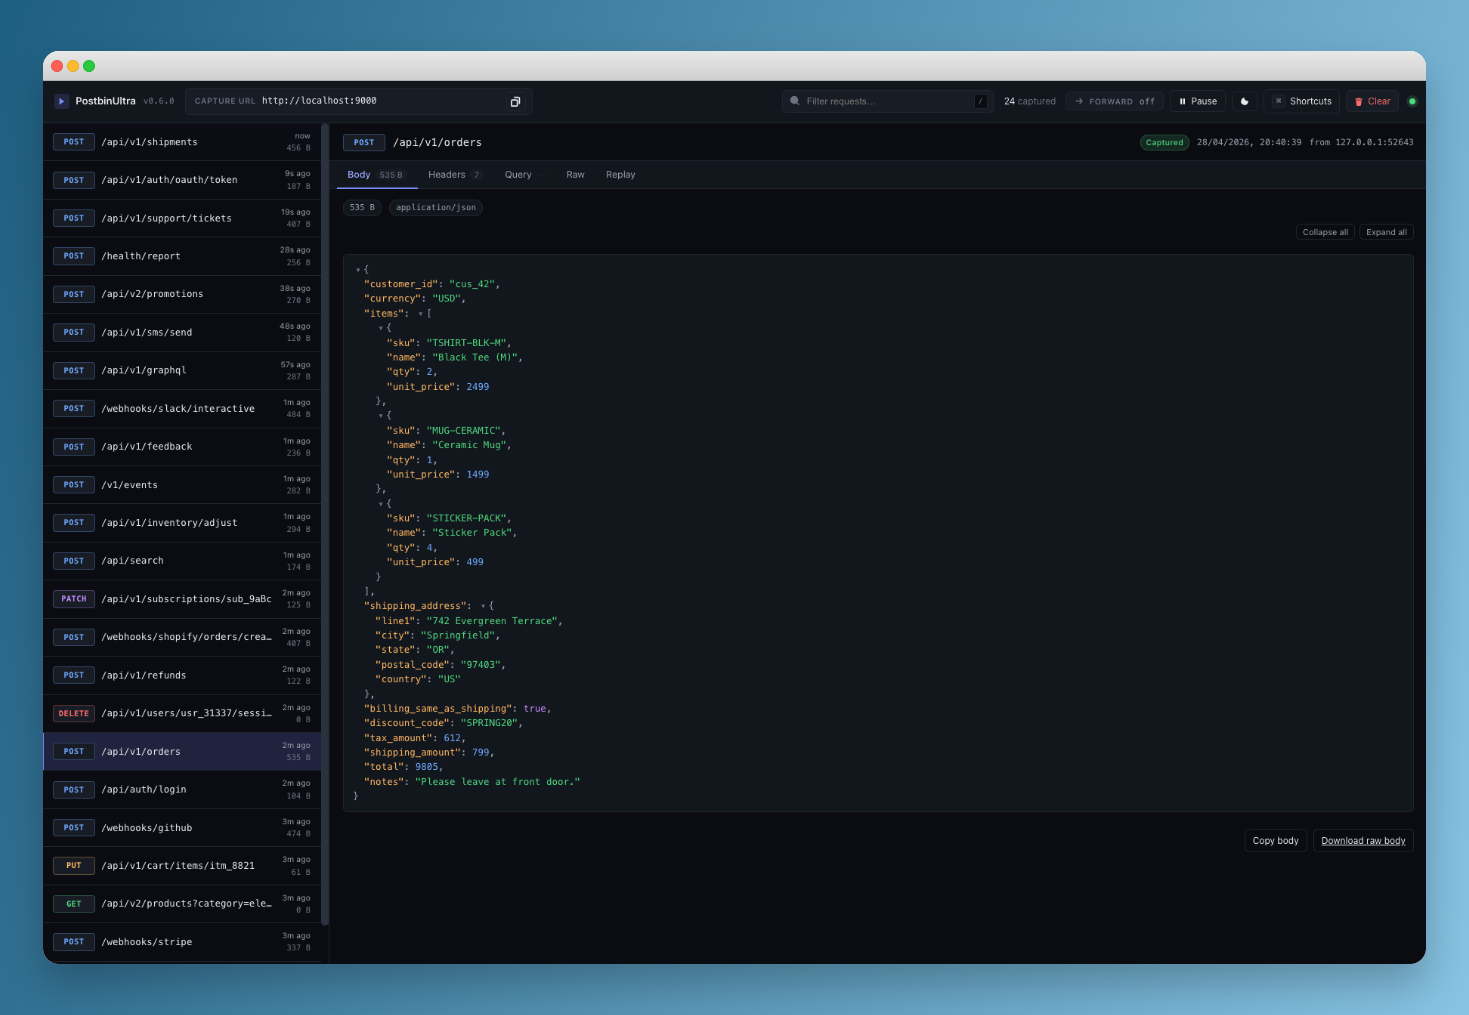
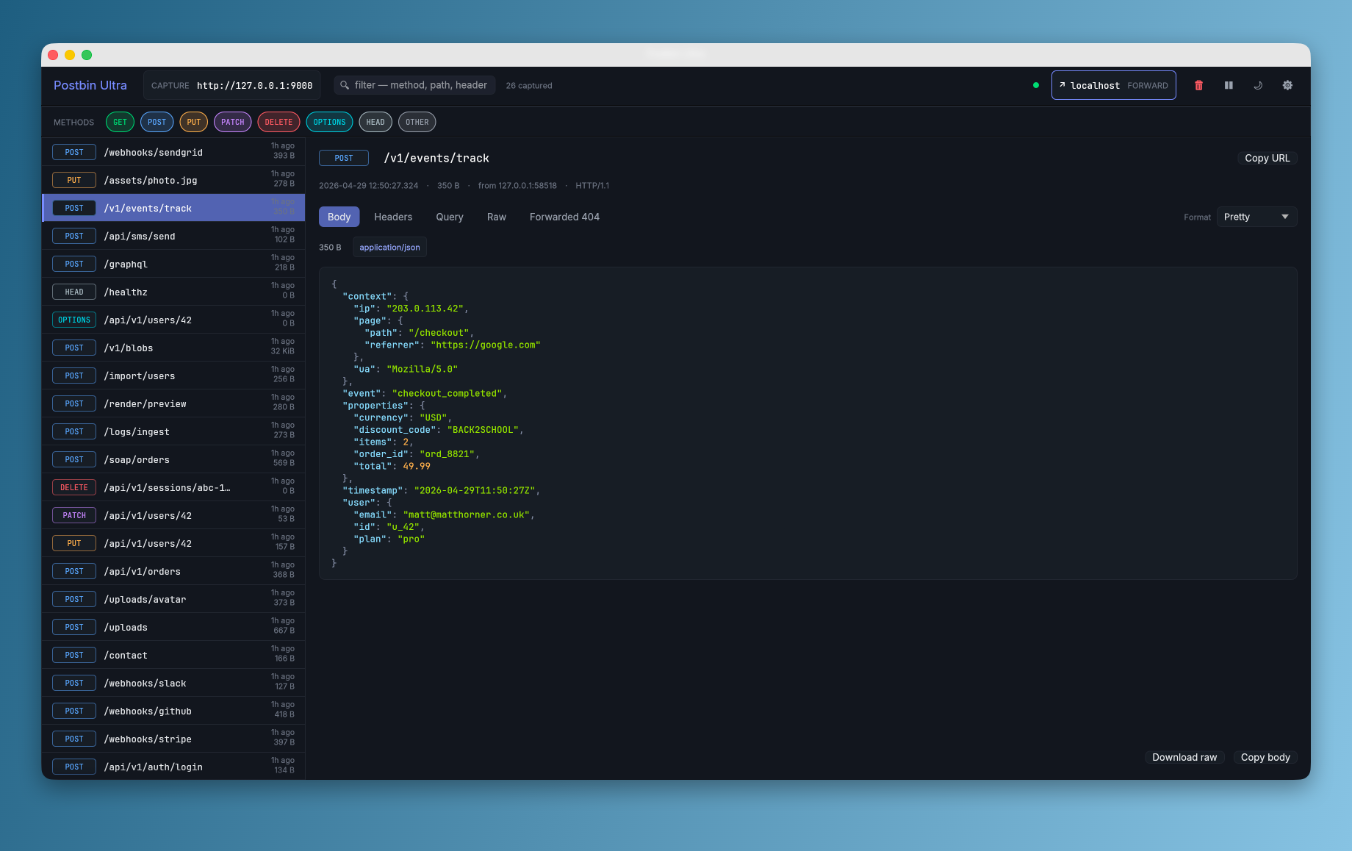
docs: refresh screenshot for v2.0.0
Replace docs/screenshot.png (which is what the README embeds and the
site build copies into site/dist/img/screenshot.png) with a fresh shot
of the v2 desktop UI showing the new sidebar layout, JSON tree body,
and the Forwarded tab. Update alt text on both surfaces to match the
new content.

diff --git a/README.md b/README.md
@@ -11,7 +11,7 @@ A native HTTP request inspector for macOS, Linux, and Windows. Capture any metho
 
 > **Full documentation: [mpjhorner.github.io/PostbinUltra](https://mpjhorner.github.io/PostbinUltra/)** · [Install](https://mpjhorner.github.io/PostbinUltra/install/) · [Forward + replay](https://mpjhorner.github.io/PostbinUltra/forward/) · [Changelog](https://mpjhorner.github.io/PostbinUltra/changelog/)
 
-![Postbin Ultra desktop app showing a captured Stripe webhook with collapsible JSON tree, headers grid, and the Forwarded tab with attempt history](docs/screenshot.png)
+![Postbin Ultra desktop app — sidebar of captured webhooks on the left, an analytics event body rendered as a syntax-highlighted JSON tree on the right, with the Forwarded tab showing the upstream 404](docs/screenshot.png)
 
 ## Why
 

diff --git a/site/content/index.md b/site/content/index.md
@@ -26,7 +26,7 @@ layout: home
   </div>
 
   <figure class="hero-figure">
-    <img src="{{base}}/img/screenshot.png" alt="Postbin Ultra desktop app showing a captured Stripe webhook with the JSON body rendered as a collapsible tree, headers grid, and the Forwarded tab with attempt history" width="1600" height="1000" />
+    <img src="{{base}}/img/screenshot.png" alt="Postbin Ultra desktop app — sidebar of captured webhooks on the left, an analytics event body rendered as a syntax-highlighted JSON tree on the right, with the Forwarded tab showing the upstream 404" width="1600" height="1000" />
   </figure>
 </section>
 
